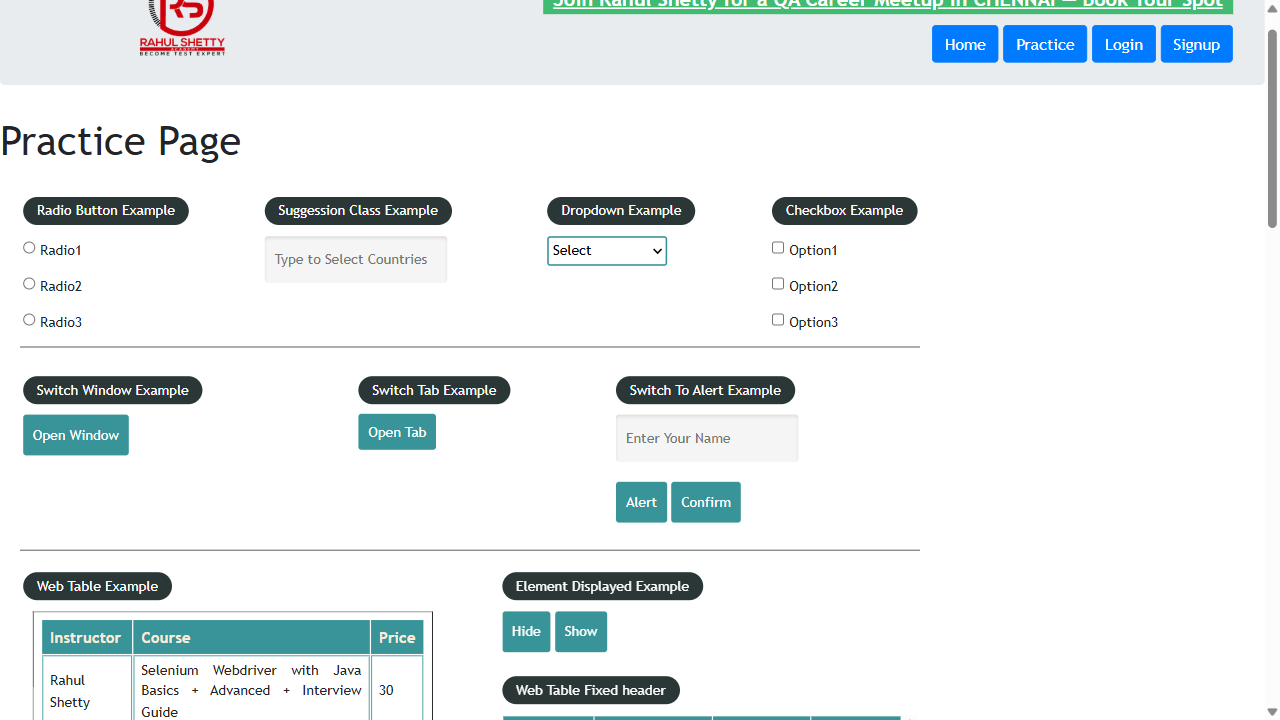
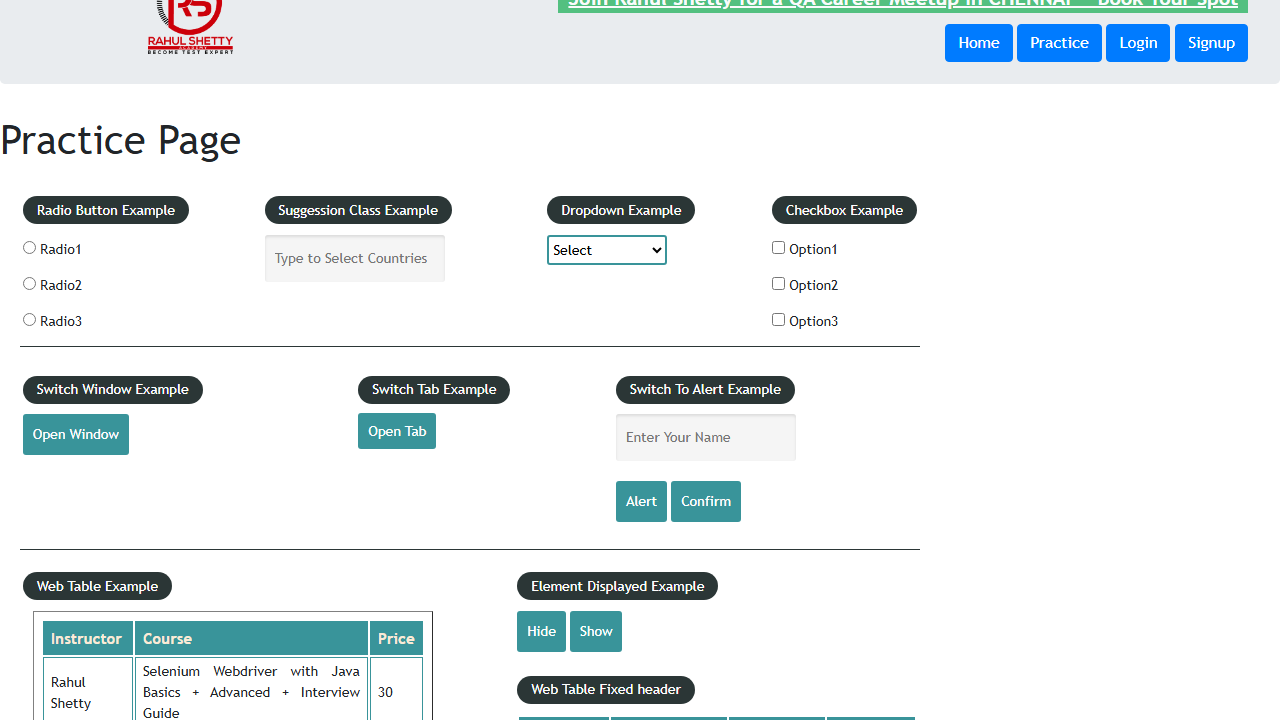
Added the eTAR Test cases

diff --git a/tests/TesteTARApplication.spec.ts b/tests/TesteTARApplication.spec.ts
@@ -1,0 +1,73 @@
+
+import { test,expect } from '@playwright/test';
+
+    test('Login to the Application', async({page})=>{
+        
+        await page.goto('https://silsr.softsol.com:6118/ProviderPortalSimulator?handler=login');
+        await page.locator('#pname').pressSequentially('1548201965');
+        await page.locator('#oname').fill('01');
+        await page.locator('#emailId').fill('santhoshraj.kovuru@softsol.com');
+        await page.selectOption('#Environment', 'DEV');
+        await page.locator('#txt_ShowUrl').click();
+        await page.locator('#LinkMedicalServices').click();
+        console.log(await page.title());
+
+        // Provider Information
+
+        // Selection of Provider Address
+
+        await page.locator('[href*="Provider_Addrs_Sel.htm&CurrentPage=no_save&Upload=FALSE&CancelService=FALSE"]').click();
+        await page.locator('[href*="Provider_Addrs_Sel&Location=001&ProviderNumber=1548201965&Owner=01"]').click();
+
+        // Enter the Provider Information page
+
+        await page.locator('input[name="txtTARCompBy"]').fill('01984');
+        await page.locator('input[name="Submit"]').click();
+
+
+        // Patient Information
+
+        await page.locator('input[name="MedicalID"]').fill('14871987S');
+        await page.locator('input[name="PatLstNme"]').fill('Barns');
+        await page.locator('input[name="PatFrstNme"]').fill('Jim');
+        await page.locator('input[name="PatDOB"]').fill('12221966');
+        await page.locator('.content input[value="M"]').check();
+        await expect(page.locator('.content input[value="M"]')).toBeChecked();
+        await page.locator('[name="Submit"]').click();
+
+        // Service page:
+
+        await page.locator('text = Hospital Days').click();
+        await page.locator("input[name='ServiceCode']").fill('2');
+        await page.locator("[name='TotUnitsReq']").fill('1');
+        // enter the from Date:
+        await page.locator("input[name='FromDate']").fill('');
+        await page.locator("input[name='FromDate']").fill('04072026');
+        // enter the Through Date:
+        await page.locator("input[name='ThruDate']").fill('');
+        await page.locator("input[name='ThruDate']").fill('04072026');
+        // enter the Admit Date:
+        await page.locator("input[name='AdmitDate']").fill('');
+        await page.locator("input[name='AdmitDate']").fill('04072026');
+        // enter the Discharge Date:
+        await page.locator("input[name='DischDate']").fill('');
+        await page.locator("input[name='DischDate']").fill('04072026');
+        // Drop-down for ICD - code 10
+        await page.selectOption("[name='Serv_ICDCodeType']",'ICD-10');
+        await page.locator("[name='Serv_ICD9_1']").fill('A52.9');
+        // date of Onset:
+        await page.locator("input[name='Serv_DateOnset_1']").fill('');
+        await page.locator("input[name='Serv_DateOnset_1']").fill('04072026'); 
+
+
+        // Clicking on Submit button at Service page
+        await page.locator("input[name='Submit']").click();
+        await page.locator("[href='surgewebservice?serviceName=surgewebservice&templateName=SetAttachmentsInd.htm&CurrentPage=Serv_Sel']").click();
+        await page.locator("[value='2']").check();
+        await expect(page.locator("[value='2']")).toBeChecked();
+        await page.locator('#submit1').click();
+
+        // TAR Creation Page.
+        console.log(await page.locator('p:has-text("TAR #") b').textContent());
+        
+    });

diff --git a/tests/ClientAppCustomFixtures.spec.js b/tests/ClientAppCustomFixtures.spec.js
@@ -1,9 +1,9 @@
 
-import {customTest} from '../Test-Data/testbase';
+import {customTest} from '../TestData/testbase';
 import { expect } from '@playwright/test';
 import { PageObjectManager } from '../PageObjects/PageObjectManager';
  // const dataset = JSON.parse(JSON.stringify(PlaceOrderTestData));
-console.log('customTest:', customTest);
+// console.log('customTest:', customTest);
 customTest('Test Application for Client App', async ({ page,testDataForOrder }) => {
 
    const pageObjectManager = new PageObjectManager(page);

diff --git a/tests/VisualTesting.spec.js b/tests/VisualTesting.spec.js
@@ -9,6 +9,6 @@ test('visual Testing',async({browser})=>{
     const page = await context.newPage();
     await page.goto('https://www.google.com/')
     // maxDiffpixels is used to take screenshot with some to pass the test, the difference between the acual and expected screenshots.
-    expect(await page.screenshot()).toMatchSnapshot('landing.png',{maxDiffPixels:1500});
+    expect(await page.screenshot()).toMatchSnapshot('landing.png',{maxDiffPixels:2500});
 
 });

diff --git a/tests/ClientAppPagewithArray.spec.js b/tests/ClientAppPagewithArray.spec.js
@@ -1,6 +1,6 @@
 import { test, expect } from '@playwright/test';
 import { PageObjectManager } from '../PageObjects/PageObjectManager';
-import PlaceOrderTestData2 from '../Test-Data/PlaceOrderTestData2.json';
+import PlaceOrderTestData2 from '../TestData/PlaceOrderTestData2.json';
 
 const dataset = JSON.parse(JSON.stringify(PlaceOrderTestData2));
 

diff --git a/tests/ClientAppPageObject.spec.js b/tests/ClientAppPageObject.spec.js
@@ -1,6 +1,6 @@
 import { test, expect } from '@playwright/test';
 import { PageObjectManager } from '../PageObjects/PageObjectManager';
-import PlaceOrderTestData from '../Test-Data/PlaceOrderTestData.json';
+import PlaceOrderTestData from '../TestData/PlaceOrderTestData.json';
 
 const dataset = JSON.parse(JSON.stringify(PlaceOrderTestData));
 

diff --git a/tests/WebAppAPITest.spec.js b/tests/WebAppAPITest.spec.js
@@ -3,7 +3,7 @@
 import { test, expect, request } from '@playwright/test';
 
 // Import API utility class to reuse API methods
-import {API_Utils} from '../utils/APIUtils';
+import {API_Utils} from '../utils/APIUtils'
 
 // Login payload containing user credentials
 const loginPayLoad = {

diff --git a/tests/NetworkTest.spec.js b/tests/NetworkTest.spec.js
@@ -3,7 +3,7 @@
 import { test, request } from '@playwright/test';
 
 // Import API utility class to reuse API methods
-import {API_Utils} from './utils/APIUtils';
+import {API_Utils} from '../utils/APIUtils';
 
 // Login payload containing user credentials
 const loginPayLoad = {
